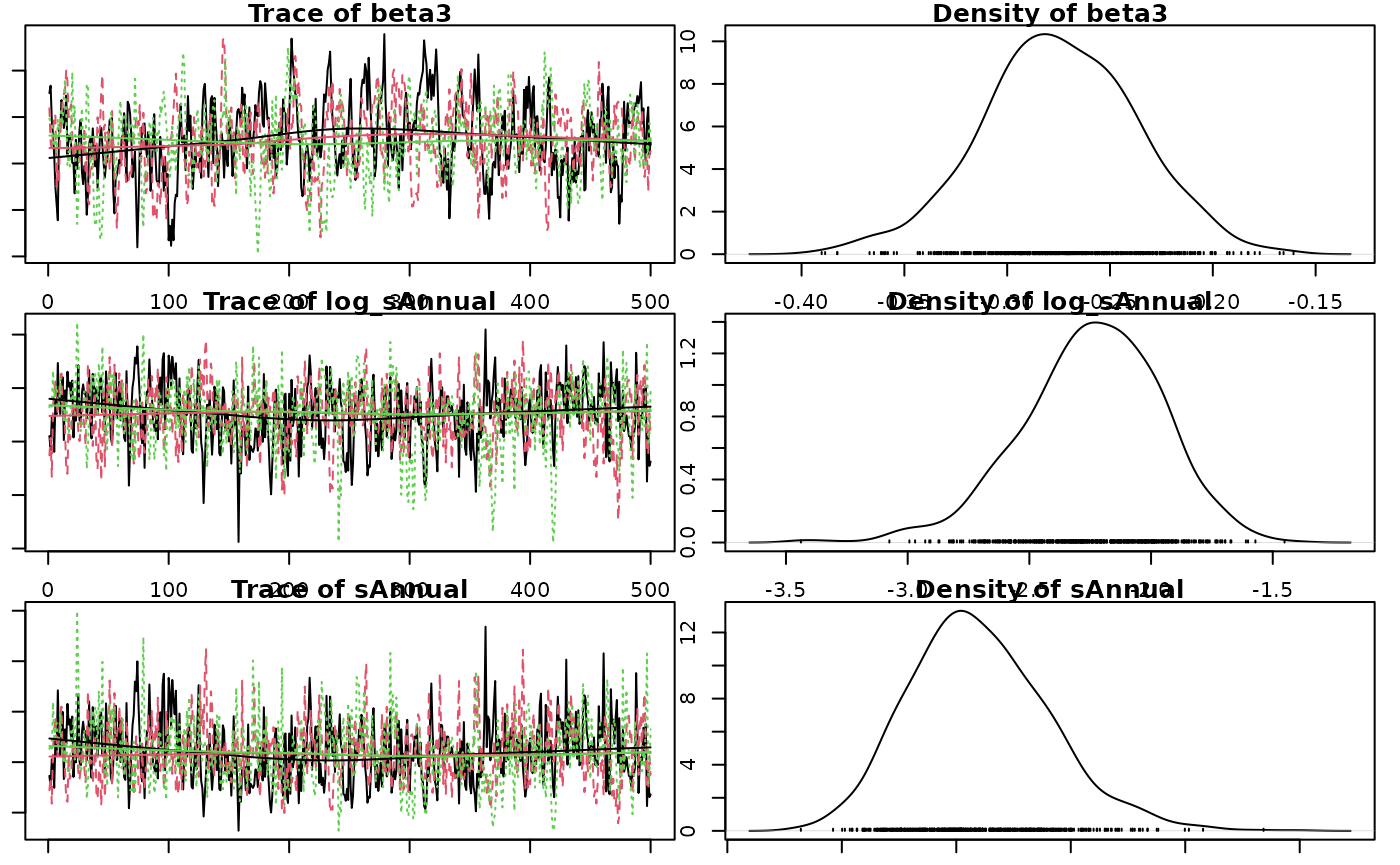
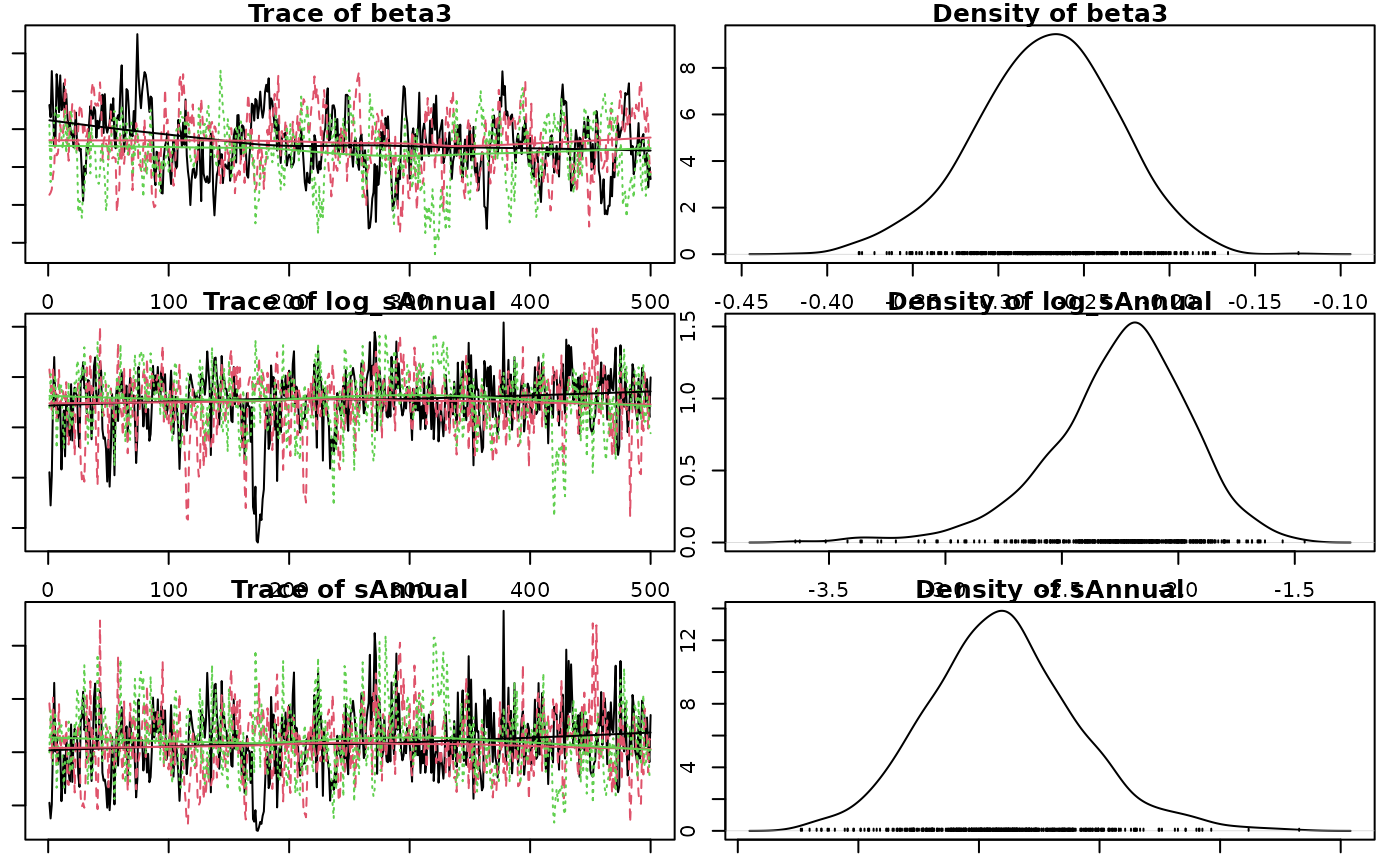
Deploying to gh-pages from @ poissonconsulting/jmbr@b5f0a83b025a344666117409d2168f4be49e3e87 🚀

diff --git a/articles/jmbr.html b/articles/jmbr.html
@@ -24,7 +24,7 @@
 
     <a class="navbar-brand me-2" href="../index.html">jmbr</a>
 
-    <small class="nav-text text-muted me-auto" data-bs-toggle="tooltip" data-bs-placement="bottom" title="">0.0.0.9149</small>
+    <small class="nav-text text-muted me-auto" data-bs-toggle="tooltip" data-bs-placement="bottom" title="">0.0.0.9150</small>
 
 
     <button class="navbar-toggler" type="button" data-bs-toggle="collapse" data-bs-target="#navbar" aria-controls="navbar" aria-expanded="false" aria-label="Toggle navigation">
@@ -285,14 +285,14 @@ value and discarding all other values.</p>
 <span><span class="co">#&gt; <span style="color: #949494;"># A tibble: 1 × 8</span></span></span>
 <span><span class="co">#&gt;       n     K nchains niters nthin   ess  rhat converged</span></span>
 <span><span class="co">#&gt;   <span style="color: #949494; font-style: italic;">&lt;int&gt;</span> <span style="color: #949494; font-style: italic;">&lt;int&gt;</span>   <span style="color: #949494; font-style: italic;">&lt;int&gt;</span>  <span style="color: #949494; font-style: italic;">&lt;int&gt;</span> <span style="color: #949494; font-style: italic;">&lt;int&gt;</span> <span style="color: #949494; font-style: italic;">&lt;int&gt;</span> <span style="color: #949494; font-style: italic;">&lt;dbl&gt;</span> <span style="color: #949494; font-style: italic;">&lt;lgl&gt;</span>    </span></span>
-<span><span class="co">#&gt; <span style="color: #BCBCBC;">1</span>    40     6       3    500    10   278  1.01 TRUE</span></span>
+<span><span class="co">#&gt; <span style="color: #BCBCBC;">1</span>    40     6       3    500    10   178  1.03 TRUE</span></span>
 <span><span class="co">#&gt; Warning in value[[3L]](cond): beep() could not play the sound due to the following error:</span></span>
 <span><span class="co">#&gt; Error in play.default(x, rate, ...): no audio drivers are available</span></span>
 <span><span class="va">analysis</span> <span class="op">&lt;-</span> <span class="fu"><a href="https://rdrr.io/pkg/embr/man/reanalyse.html" class="external-link">reanalyse</a></span><span class="op">(</span><span class="va">analysis</span><span class="op">)</span></span>
 <span><span class="co">#&gt; <span style="color: #949494;"># A tibble: 1 × 8</span></span></span>
 <span><span class="co">#&gt;       n     K nchains niters nthin   ess  rhat converged</span></span>
 <span><span class="co">#&gt;   <span style="color: #949494; font-style: italic;">&lt;int&gt;</span> <span style="color: #949494; font-style: italic;">&lt;int&gt;</span>   <span style="color: #949494; font-style: italic;">&lt;int&gt;</span>  <span style="color: #949494; font-style: italic;">&lt;int&gt;</span> <span style="color: #949494; font-style: italic;">&lt;int&gt;</span> <span style="color: #949494; font-style: italic;">&lt;int&gt;</span> <span style="color: #949494; font-style: italic;">&lt;dbl&gt;</span> <span style="color: #949494; font-style: italic;">&lt;lgl&gt;</span>    </span></span>
-<span><span class="co">#&gt; <span style="color: #BCBCBC;">1</span>    40     6       3    500    10   278  1.01 TRUE</span></span>
+<span><span class="co">#&gt; <span style="color: #BCBCBC;">1</span>    40     6       3    500    10   178  1.03 TRUE</span></span>
 <span><span class="co">#&gt; Warning in value[[3L]](cond): beep() could not play the sound due to the following error:</span></span>
 <span><span class="co">#&gt; Error in play.default(x, rate, ...): no audio drivers are available</span></span></code></pre></div>
 <p><strong>Analysis Table:</strong></p>
@@ -342,12 +342,12 @@ between- and within-chain estimates for model parameters.
 <span><span class="co">#&gt; <span style="color: #949494;"># A tibble: 6 × 7</span></span></span>
 <span><span class="co">#&gt;   term        estimate     sd  zscore   lower   upper   pvalue</span></span>
 <span><span class="co">#&gt;   <span style="color: #949494; font-style: italic;">&lt;term&gt;</span>         <span style="color: #949494; font-style: italic;">&lt;dbl&gt;</span>  <span style="color: #949494; font-style: italic;">&lt;dbl&gt;</span>   <span style="color: #949494; font-style: italic;">&lt;dbl&gt;</span>   <span style="color: #949494; font-style: italic;">&lt;dbl&gt;</span>   <span style="color: #949494; font-style: italic;">&lt;dbl&gt;</span>    <span style="color: #949494; font-style: italic;">&lt;dbl&gt;</span></span></span>
-<span><span class="co">#&gt; <span style="color: #BCBCBC;">1</span> alpha         4.26   0.040<span style="text-decoration: underline;">2</span> 106.     4.18    4.34   0.000<span style="text-decoration: underline;">666</span></span></span>
-<span><span class="co">#&gt; <span style="color: #BCBCBC;">2</span> beta1         1.20   0.073<span style="text-decoration: underline;">6</span>  16.3    1.06    1.35   0.000<span style="text-decoration: underline;">666</span></span></span>
-<span><span class="co">#&gt; <span style="color: #BCBCBC;">3</span> beta2        -<span style="color: #BB0000;">0.018</span><span style="color: #BB0000; text-decoration: underline;">8</span> 0.030<span style="text-decoration: underline;">9</span>  -<span style="color: #BB0000;">0.623</span> -<span style="color: #BB0000;">0.079</span><span style="color: #BB0000; text-decoration: underline;">5</span>  0.042<span style="text-decoration: underline;">3</span> 0.523   </span></span>
-<span><span class="co">#&gt; <span style="color: #BCBCBC;">4</span> beta3        -<span style="color: #BB0000;">0.276</span>  0.037<span style="text-decoration: underline;">9</span>  -<span style="color: #BB0000;">7.26</span>  -<span style="color: #BB0000;">0.356</span>  -<span style="color: #BB0000;">0.202</span>  0.000<span style="text-decoration: underline;">666</span></span></span>
-<span><span class="co">#&gt; <span style="color: #BCBCBC;">5</span> log_sAnnual  -<span style="color: #BB0000;">2.23</span>   0.289   -<span style="color: #BB0000;">7.78</span>  -<span style="color: #BB0000;">2.87</span>   -<span style="color: #BB0000;">1.73</span>   0.000<span style="text-decoration: underline;">666</span></span></span>
-<span><span class="co">#&gt; <span style="color: #BCBCBC;">6</span> sAnnual       0.107  0.030<span style="text-decoration: underline;">6</span>   3.60   0.056<span style="text-decoration: underline;">5</span>  0.178  0.000<span style="text-decoration: underline;">666</span></span></span></code></pre></div>
+<span><span class="co">#&gt; <span style="color: #BCBCBC;">1</span> alpha         4.26   0.041<span style="text-decoration: underline;">3</span> 103.     4.18    4.34   0.000<span style="text-decoration: underline;">666</span></span></span>
+<span><span class="co">#&gt; <span style="color: #BCBCBC;">2</span> beta1         1.19   0.082<span style="text-decoration: underline;">1</span>  14.5    1.04    1.36   0.000<span style="text-decoration: underline;">666</span></span></span>
+<span><span class="co">#&gt; <span style="color: #BCBCBC;">3</span> beta2        -<span style="color: #BB0000;">0.019</span><span style="color: #BB0000; text-decoration: underline;">0</span> 0.031<span style="text-decoration: underline;">6</span>  -<span style="color: #BB0000;">0.592</span> -<span style="color: #BB0000;">0.080</span><span style="color: #BB0000; text-decoration: underline;">5</span>  0.043<span style="text-decoration: underline;">3</span> 0.547   </span></span>
+<span><span class="co">#&gt; <span style="color: #BCBCBC;">4</span> beta3        -<span style="color: #BB0000;">0.271</span>  0.041<span style="text-decoration: underline;">3</span>  -<span style="color: #BB0000;">6.59</span>  -<span style="color: #BB0000;">0.359</span>  -<span style="color: #BB0000;">0.196</span>  0.000<span style="text-decoration: underline;">666</span></span></span>
+<span><span class="co">#&gt; <span style="color: #BCBCBC;">5</span> log_sAnnual  -<span style="color: #BB0000;">2.21</span>   0.304   -<span style="color: #BB0000;">7.40</span>  -<span style="color: #BB0000;">2.95</span>   -<span style="color: #BB0000;">1.72</span>   0.000<span style="text-decoration: underline;">666</span></span></span>
+<span><span class="co">#&gt; <span style="color: #BCBCBC;">6</span> sAnnual       0.109  0.031<span style="text-decoration: underline;">0</span>   3.54   0.052<span style="text-decoration: underline;">4</span>  0.178  0.000<span style="text-decoration: underline;">666</span></span></span></code></pre></div>
 <p>The estimate is the <strong>median</strong> by default.</p>
 <p>The zscore is <span class="math inline">mean / sd</span>.</p>
 <div class="sourceCode" id="cb12"><pre class="downlit sourceCode r">
@@ -356,11 +356,11 @@ between- and within-chain estimates for model parameters.
 <span><span class="co">#&gt;   term        estimate   lower   upper svalue</span></span>
 <span><span class="co">#&gt;   <span style="color: #949494; font-style: italic;">&lt;term&gt;</span>         <span style="color: #949494; font-style: italic;">&lt;dbl&gt;</span>   <span style="color: #949494; font-style: italic;">&lt;dbl&gt;</span>   <span style="color: #949494; font-style: italic;">&lt;dbl&gt;</span>  <span style="color: #949494; font-style: italic;">&lt;dbl&gt;</span></span></span>
 <span><span class="co">#&gt; <span style="color: #BCBCBC;">1</span> alpha         4.26    4.18    4.34   10.6  </span></span>
-<span><span class="co">#&gt; <span style="color: #BCBCBC;">2</span> beta1         1.20    1.06    1.35   10.6  </span></span>
-<span><span class="co">#&gt; <span style="color: #BCBCBC;">3</span> beta2        -<span style="color: #BB0000;">0.018</span><span style="color: #BB0000; text-decoration: underline;">8</span> -<span style="color: #BB0000;">0.079</span><span style="color: #BB0000; text-decoration: underline;">5</span>  0.042<span style="text-decoration: underline;">3</span>  0.936</span></span>
-<span><span class="co">#&gt; <span style="color: #BCBCBC;">4</span> beta3        -<span style="color: #BB0000;">0.276</span>  -<span style="color: #BB0000;">0.356</span>  -<span style="color: #BB0000;">0.202</span>  10.6  </span></span>
-<span><span class="co">#&gt; <span style="color: #BCBCBC;">5</span> log_sAnnual  -<span style="color: #BB0000;">2.23</span>   -<span style="color: #BB0000;">2.87</span>   -<span style="color: #BB0000;">1.73</span>   10.6  </span></span>
-<span><span class="co">#&gt; <span style="color: #BCBCBC;">6</span> sAnnual       0.107   0.056<span style="text-decoration: underline;">5</span>  0.178  10.6</span></span></code></pre></div>
+<span><span class="co">#&gt; <span style="color: #BCBCBC;">2</span> beta1         1.19    1.04    1.36   10.6  </span></span>
+<span><span class="co">#&gt; <span style="color: #BCBCBC;">3</span> beta2        -<span style="color: #BB0000;">0.019</span><span style="color: #BB0000; text-decoration: underline;">0</span> -<span style="color: #BB0000;">0.080</span><span style="color: #BB0000; text-decoration: underline;">5</span>  0.043<span style="text-decoration: underline;">3</span>  0.871</span></span>
+<span><span class="co">#&gt; <span style="color: #BCBCBC;">4</span> beta3        -<span style="color: #BB0000;">0.271</span>  -<span style="color: #BB0000;">0.359</span>  -<span style="color: #BB0000;">0.196</span>  10.6  </span></span>
+<span><span class="co">#&gt; <span style="color: #BCBCBC;">5</span> log_sAnnual  -<span style="color: #BB0000;">2.21</span>   -<span style="color: #BB0000;">2.95</span>   -<span style="color: #BB0000;">1.72</span>   10.6  </span></span>
+<span><span class="co">#&gt; <span style="color: #BCBCBC;">6</span> sAnnual       0.109   0.052<span style="text-decoration: underline;">4</span>  0.178  10.6</span></span></code></pre></div>
 <p>The s-value is the <strong>suprisal</strong> value, which is a
 measure of directionality with respect to zero.</p>
 <p>The s-value is zero (unsurprising) when <em>p-value</em> = 1.0 and

diff --git a/news/index.html b/news/index.html
@@ -7,7 +7,7 @@
 
     <a class="navbar-brand me-2" href="../index.html">jmbr</a>
 
-    <small class="nav-text text-muted me-auto" data-bs-toggle="tooltip" data-bs-placement="bottom" title="">0.0.0.9149</small>
+    <small class="nav-text text-muted me-auto" data-bs-toggle="tooltip" data-bs-placement="bottom" title="">0.0.0.9150</small>
 
 
     <button class="navbar-toggler" type="button" data-bs-toggle="collapse" data-bs-target="#navbar" aria-controls="navbar" aria-expanded="false" aria-label="Toggle navigation">
@@ -33,6 +33,10 @@
       <small>Source: <a href="https://github.com/poissonconsulting/jmbr/blob/main/NEWS.md" class="external-link"><code>NEWS.md</code></a></small>
     </div>
 
+    <div class="section level2">
+<h2 class="pkg-version" data-toc-text="0.0.0.9150" id="jmbr-0009150-2026-06-20">jmbr 0.0.0.9150 (2026-06-20)<a class="anchor" aria-label="anchor" href="#jmbr-0009150-2026-06-20"></a></h2>
+<ul><li>Same as previous version.</li>
+</ul></div>
     <div class="section level2">
 <h2 class="pkg-version" data-toc-text="0.0.0.9149" id="jmbr-0009149-2026-06-19">jmbr 0.0.0.9149 (2026-06-19)<a class="anchor" aria-label="anchor" href="#jmbr-0009149-2026-06-19"></a></h2>
 <ul><li>Same as previous version.</li>

diff --git a/404.html b/404.html
@@ -24,7 +24,7 @@
 
     <a class="navbar-brand me-2" href="https://poissonconsulting.github.io/jmbr/index.html">jmbr</a>
 
-    <small class="nav-text text-muted me-auto" data-bs-toggle="tooltip" data-bs-placement="bottom" title="">0.0.0.9149</small>
+    <small class="nav-text text-muted me-auto" data-bs-toggle="tooltip" data-bs-placement="bottom" title="">0.0.0.9150</small>
 
 
     <button class="navbar-toggler" type="button" data-bs-toggle="collapse" data-bs-target="#navbar" aria-controls="navbar" aria-expanded="false" aria-label="Toggle navigation">

diff --git a/CODE_OF_CONDUCT.html b/CODE_OF_CONDUCT.html
@@ -7,7 +7,7 @@
 
     <a class="navbar-brand me-2" href="index.html">jmbr</a>
 
-    <small class="nav-text text-muted me-auto" data-bs-toggle="tooltip" data-bs-placement="bottom" title="">0.0.0.9149</small>
+    <small class="nav-text text-muted me-auto" data-bs-toggle="tooltip" data-bs-placement="bottom" title="">0.0.0.9150</small>
 
 
     <button class="navbar-toggler" type="button" data-bs-toggle="collapse" data-bs-target="#navbar" aria-controls="navbar" aria-expanded="false" aria-label="Toggle navigation">

diff --git a/CONTRIBUTING.html b/CONTRIBUTING.html
@@ -7,7 +7,7 @@
 
     <a class="navbar-brand me-2" href="index.html">jmbr</a>
 
-    <small class="nav-text text-muted me-auto" data-bs-toggle="tooltip" data-bs-placement="bottom" title="">0.0.0.9149</small>
+    <small class="nav-text text-muted me-auto" data-bs-toggle="tooltip" data-bs-placement="bottom" title="">0.0.0.9150</small>
 
 
     <button class="navbar-toggler" type="button" data-bs-toggle="collapse" data-bs-target="#navbar" aria-controls="navbar" aria-expanded="false" aria-label="Toggle navigation">

diff --git a/LICENSE-text.html b/LICENSE-text.html
@@ -7,7 +7,7 @@
 
     <a class="navbar-brand me-2" href="index.html">jmbr</a>
 
-    <small class="nav-text text-muted me-auto" data-bs-toggle="tooltip" data-bs-placement="bottom" title="">0.0.0.9149</small>
+    <small class="nav-text text-muted me-auto" data-bs-toggle="tooltip" data-bs-placement="bottom" title="">0.0.0.9150</small>
 
 
     <button class="navbar-toggler" type="button" data-bs-toggle="collapse" data-bs-target="#navbar" aria-controls="navbar" aria-expanded="false" aria-label="Toggle navigation">

diff --git a/LICENSE.html b/LICENSE.html
@@ -7,7 +7,7 @@
 
     <a class="navbar-brand me-2" href="index.html">jmbr</a>
 
-    <small class="nav-text text-muted me-auto" data-bs-toggle="tooltip" data-bs-placement="bottom" title="">0.0.0.9149</small>
+    <small class="nav-text text-muted me-auto" data-bs-toggle="tooltip" data-bs-placement="bottom" title="">0.0.0.9150</small>
 
 
     <button class="navbar-toggler" type="button" data-bs-toggle="collapse" data-bs-target="#navbar" aria-controls="navbar" aria-expanded="false" aria-label="Toggle navigation">

diff --git a/SUPPORT.html b/SUPPORT.html
@@ -7,7 +7,7 @@
 
     <a class="navbar-brand me-2" href="index.html">jmbr</a>
 
-    <small class="nav-text text-muted me-auto" data-bs-toggle="tooltip" data-bs-placement="bottom" title="">0.0.0.9149</small>
+    <small class="nav-text text-muted me-auto" data-bs-toggle="tooltip" data-bs-placement="bottom" title="">0.0.0.9150</small>
 
 
     <button class="navbar-toggler" type="button" data-bs-toggle="collapse" data-bs-target="#navbar" aria-controls="navbar" aria-expanded="false" aria-label="Toggle navigation">

diff --git a/articles/index.html b/articles/index.html
@@ -7,7 +7,7 @@
 
     <a class="navbar-brand me-2" href="../index.html">jmbr</a>
 
-    <small class="nav-text text-muted me-auto" data-bs-toggle="tooltip" data-bs-placement="bottom" title="">0.0.0.9149</small>
+    <small class="nav-text text-muted me-auto" data-bs-toggle="tooltip" data-bs-placement="bottom" title="">0.0.0.9150</small>
 
 
     <button class="navbar-toggler" type="button" data-bs-toggle="collapse" data-bs-target="#navbar" aria-controls="navbar" aria-expanded="false" aria-label="Toggle navigation">

diff --git a/authors.html b/authors.html
@@ -7,7 +7,7 @@
 
     <a class="navbar-brand me-2" href="index.html">jmbr</a>
 
-    <small class="nav-text text-muted me-auto" data-bs-toggle="tooltip" data-bs-placement="bottom" title="">0.0.0.9149</small>
+    <small class="nav-text text-muted me-auto" data-bs-toggle="tooltip" data-bs-placement="bottom" title="">0.0.0.9150</small>
 
 
     <button class="navbar-toggler" type="button" data-bs-toggle="collapse" data-bs-target="#navbar" aria-controls="navbar" aria-expanded="false" aria-label="Toggle navigation">

diff --git a/index.html b/index.html
@@ -26,7 +26,7 @@
 
     <a class="navbar-brand me-2" href="index.html">jmbr</a>
 
-    <small class="nav-text text-muted me-auto" data-bs-toggle="tooltip" data-bs-placement="bottom" title="">0.0.0.9149</small>
+    <small class="nav-text text-muted me-auto" data-bs-toggle="tooltip" data-bs-placement="bottom" title="">0.0.0.9150</small>
 
 
     <button class="navbar-toggler" type="button" data-bs-toggle="collapse" data-bs-target="#navbar" aria-controls="navbar" aria-expanded="false" aria-label="Toggle navigation">

diff --git a/reference/index.html b/reference/index.html
@@ -7,7 +7,7 @@
 
     <a class="navbar-brand me-2" href="../index.html">jmbr</a>
 
-    <small class="nav-text text-muted me-auto" data-bs-toggle="tooltip" data-bs-placement="bottom" title="">0.0.0.9149</small>
+    <small class="nav-text text-muted me-auto" data-bs-toggle="tooltip" data-bs-placement="bottom" title="">0.0.0.9150</small>
 
 
     <button class="navbar-toggler" type="button" data-bs-toggle="collapse" data-bs-target="#navbar" aria-controls="navbar" aria-expanded="false" aria-label="Toggle navigation">